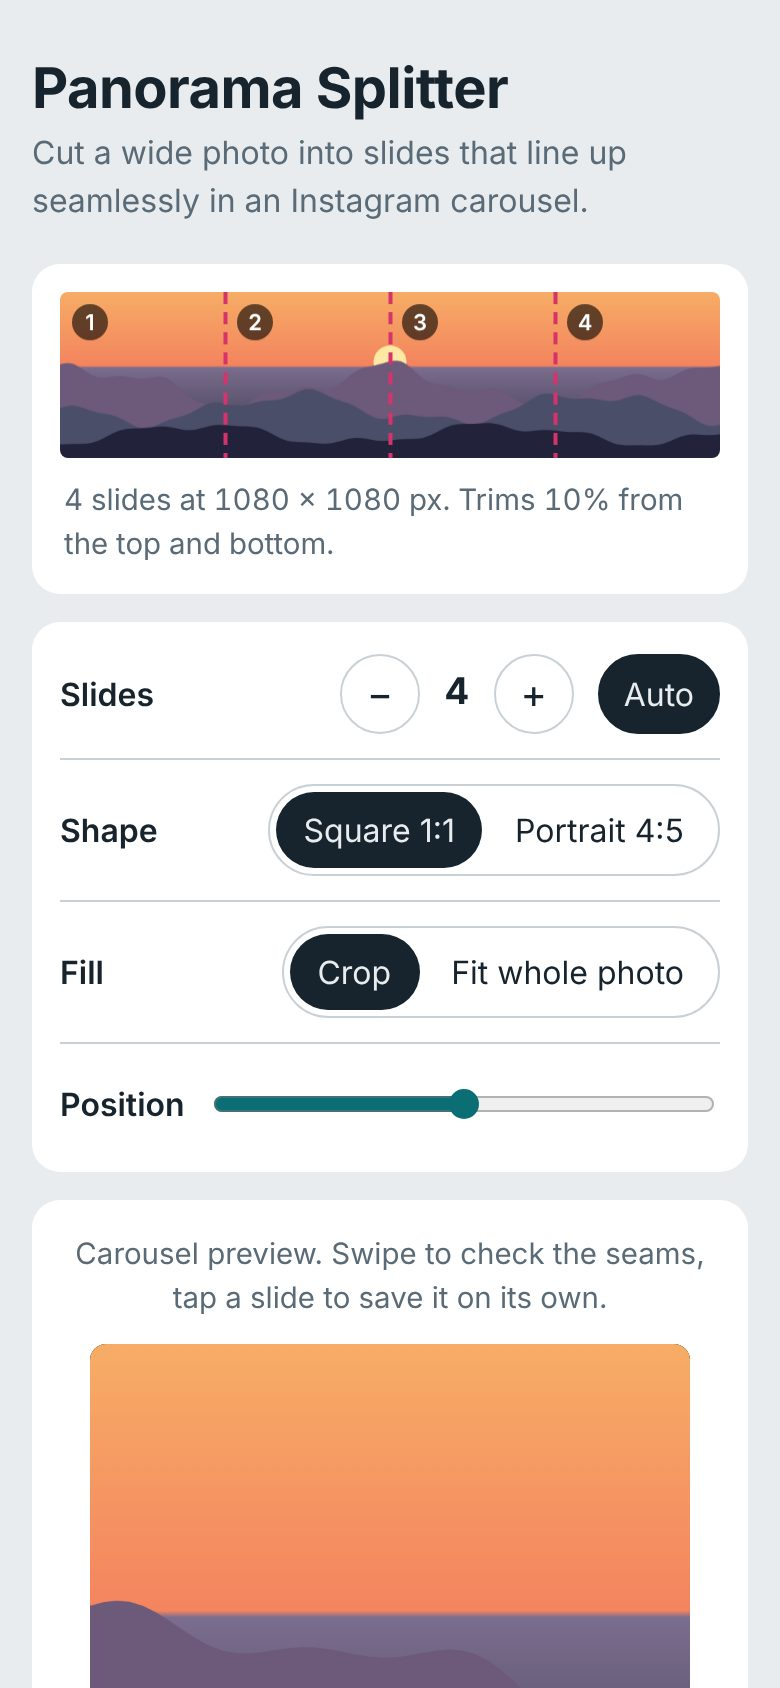
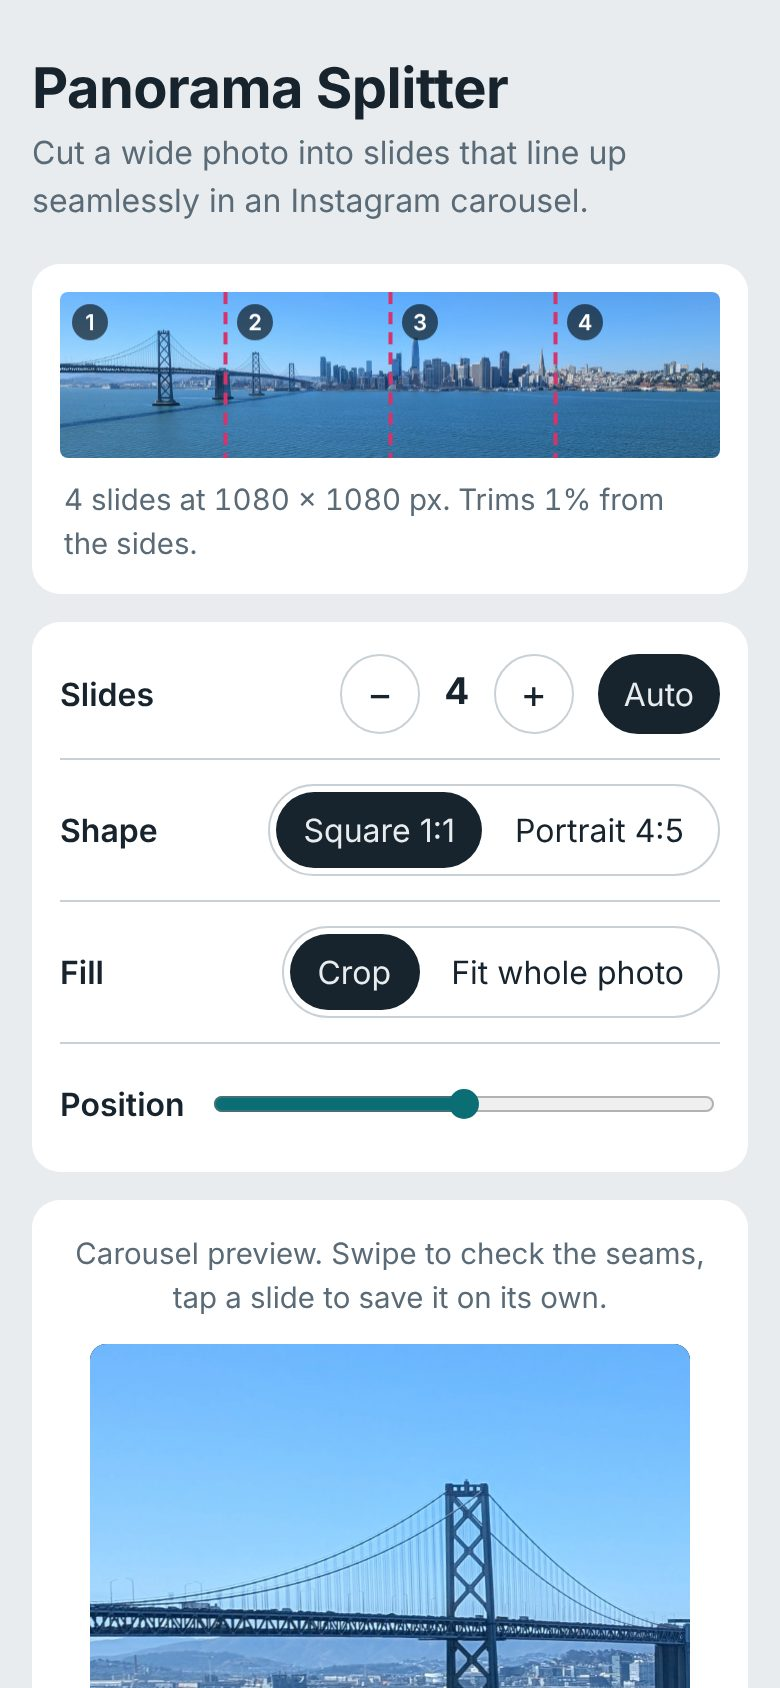
Panorama Splitter: screenshot with a real panorama (SF skyline and Bay Bridge)
Claude-Session: https://claude.ai/code/session_01S85J16qWag3ZBrDP9TZQhT

Changed region(s): [[0.0923, 0.7701, 0.8923, 1.0], [0.0615, 0.154, 0.9231, 0.3081], [0.1538, 0.3081, 0.4308, 0.3389]]

diff --git a/index.html b/index.html
@@ -148,7 +148,7 @@ footer{margin-top:32px;color:var(--muted);font-size:.9rem}
       <a href="https://github.com/hodzic/photo-splitter">Source</a>
     </div>
     </div>
-    <a class="shot" href="/photo-splitter/"><img src="shots/photo-splitter.jpg" width="390" height="844" alt="A panorama cut into four square slides, with the controls" loading="lazy"></a>
+    <a class="shot" href="/photo-splitter/"><img src="shots/photo-splitter.jpg" width="390" height="844" alt="A San Francisco skyline panorama with the Bay Bridge, cut into four square slides, with the controls" loading="lazy"></a>
   </section>
 
   <footer>Edin Hodzic · <a href="https://github.com/hodzic">GitHub</a></footer>
